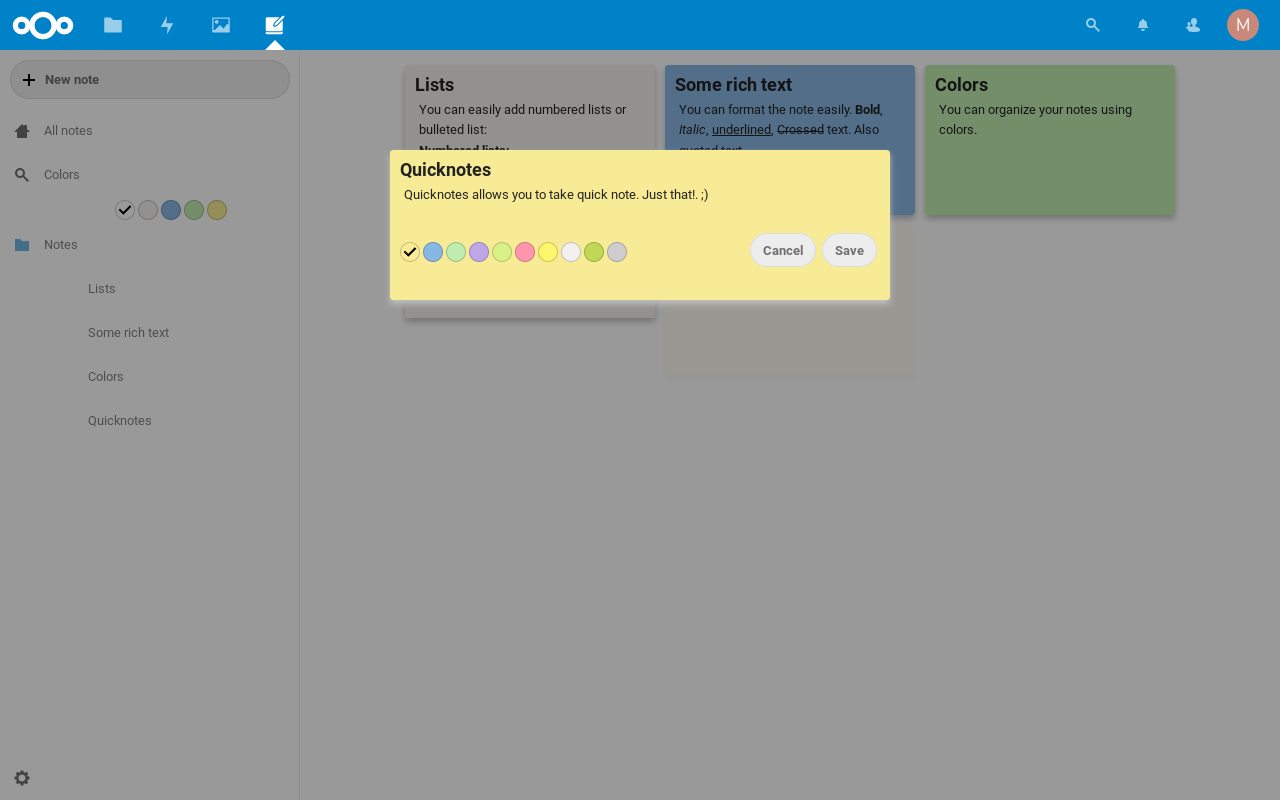
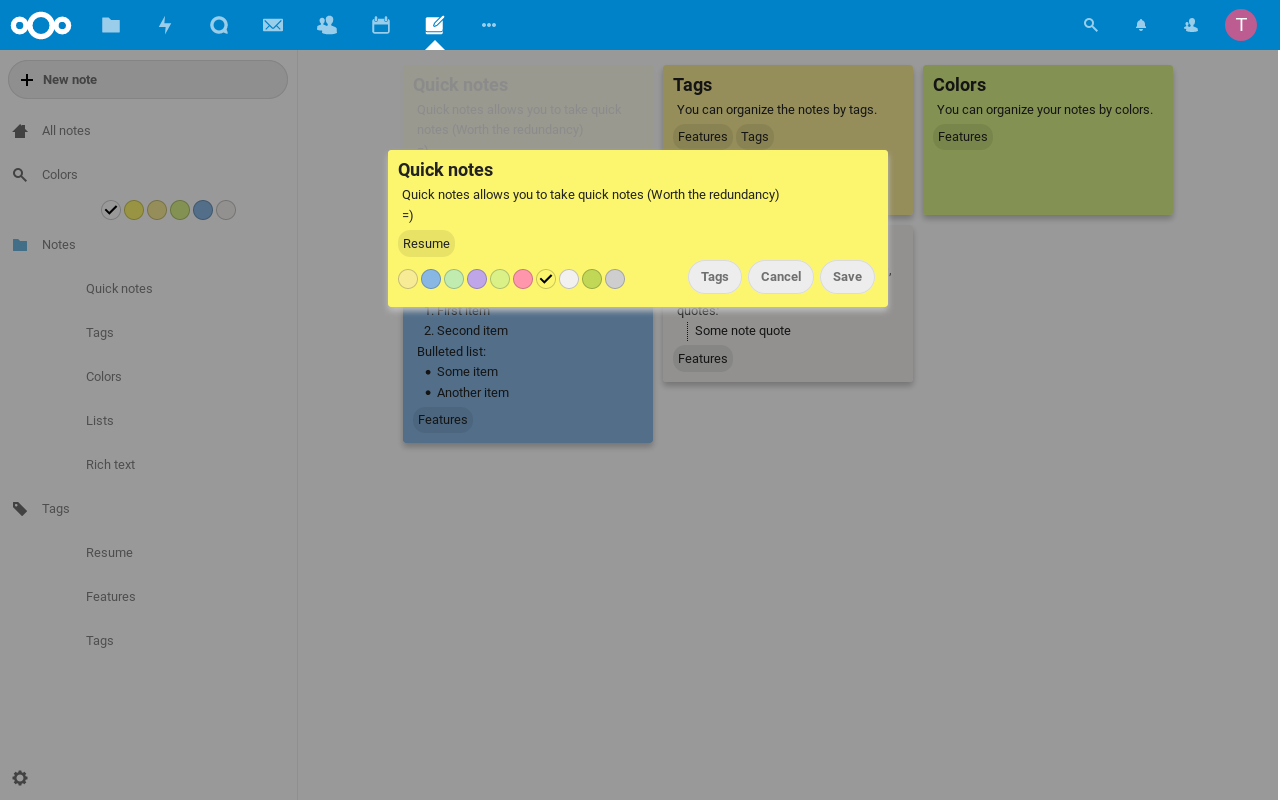
Quicknotes v0.2.0

diff --git a/l10n/es.js b/l10n/es.js
@@ -12,6 +12,11 @@ OC.L10N.register(
     "All notes" : "Todas las notas",
     "Colors" : "Colores",
     "Notes" : "Notas",
-    "Quick notes with a basic rich text" : "Notas rápidas con un texto enriquecido básico"
+    "Quick notes with a basic rich text" : "Notas rápidas con un texto enriquecido básico",
+    "Tag the note" : "Etiqueta la nota",
+    "Enter tags to organize your note" : "Ingrese etiquetas para organizar su nota",
+    "Enter tag name" : "Ingrese el nombre de la etiqueta",
+    "Done" : "Hecho",
+    "Tags" : "Etiquetas"
 },
 "nplurals=2; plural=(n != 1);");

diff --git a/js/qn-dialogs.js b/js/qn-dialogs.js
@@ -30,7 +30,7 @@ const QnDialogs = {
 			var dialogId = '#' + dialogName;
 			var $dlg = $tmpl.octemplate({
 				dialog_name: dialogName,
-				title: t('quicknotes', 'Tag note'),
+				title: t('quicknotes', 'Tag the note'),
 				message: t('quicknotes', 'Enter tags to organize your note'),
 				type: 'none'
 			});

diff --git a/CHANGELOG.md b/CHANGELOG.md
@@ -1,4 +1,9 @@
-#Changelog
+# Changelog
+
+## [0.2.0]: 2019-11-12
+- Implement notes tagging support and filter with it.
+- Fix calling exponentially to save notes when pressed Alt+Return.
+- Update spanish translation
 
 ## [0.1.10]: 2019-11-02
 ### Added
